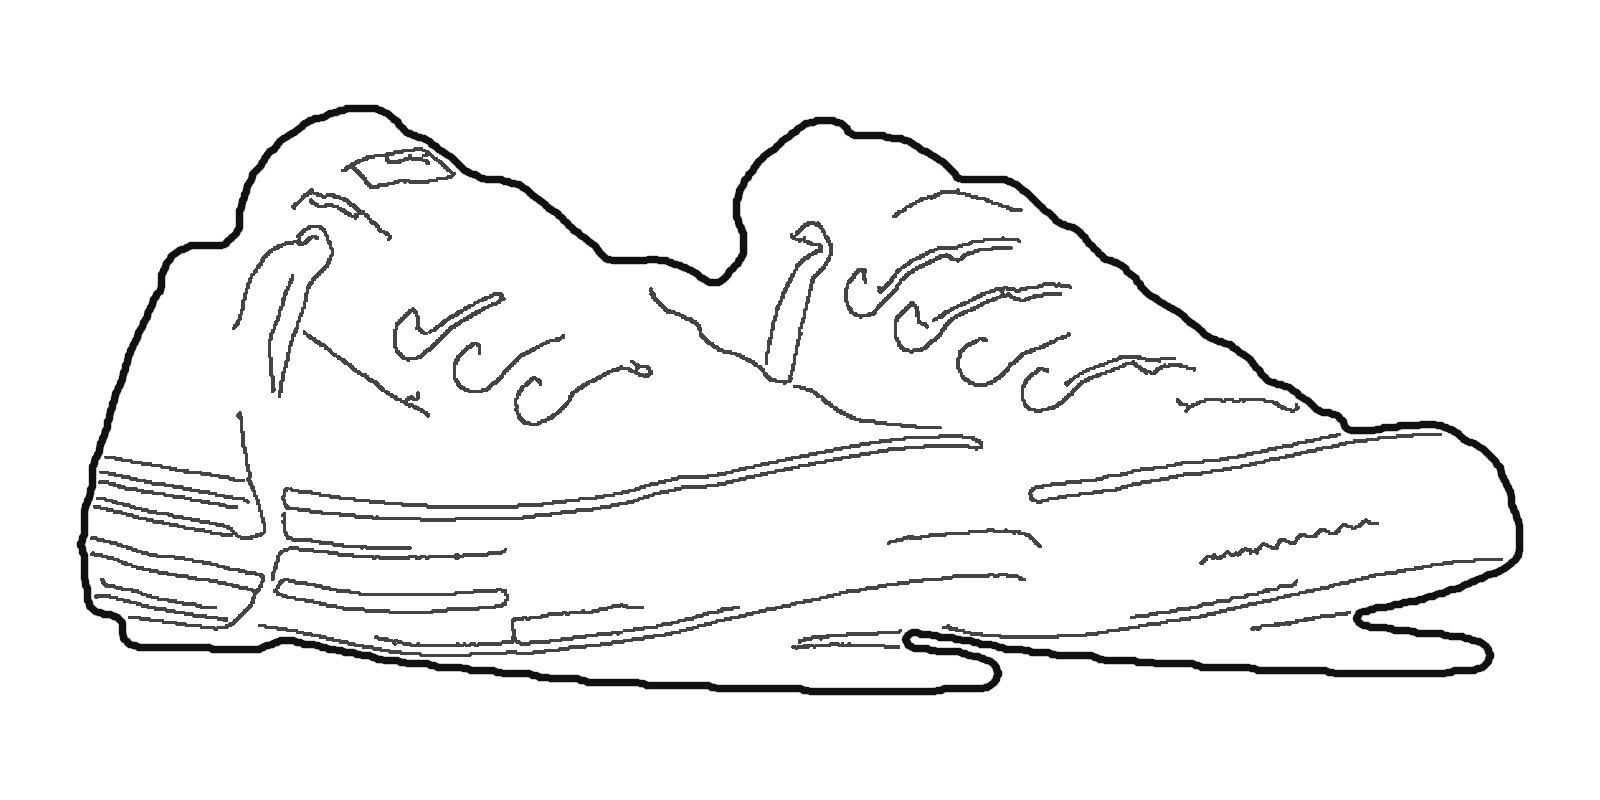
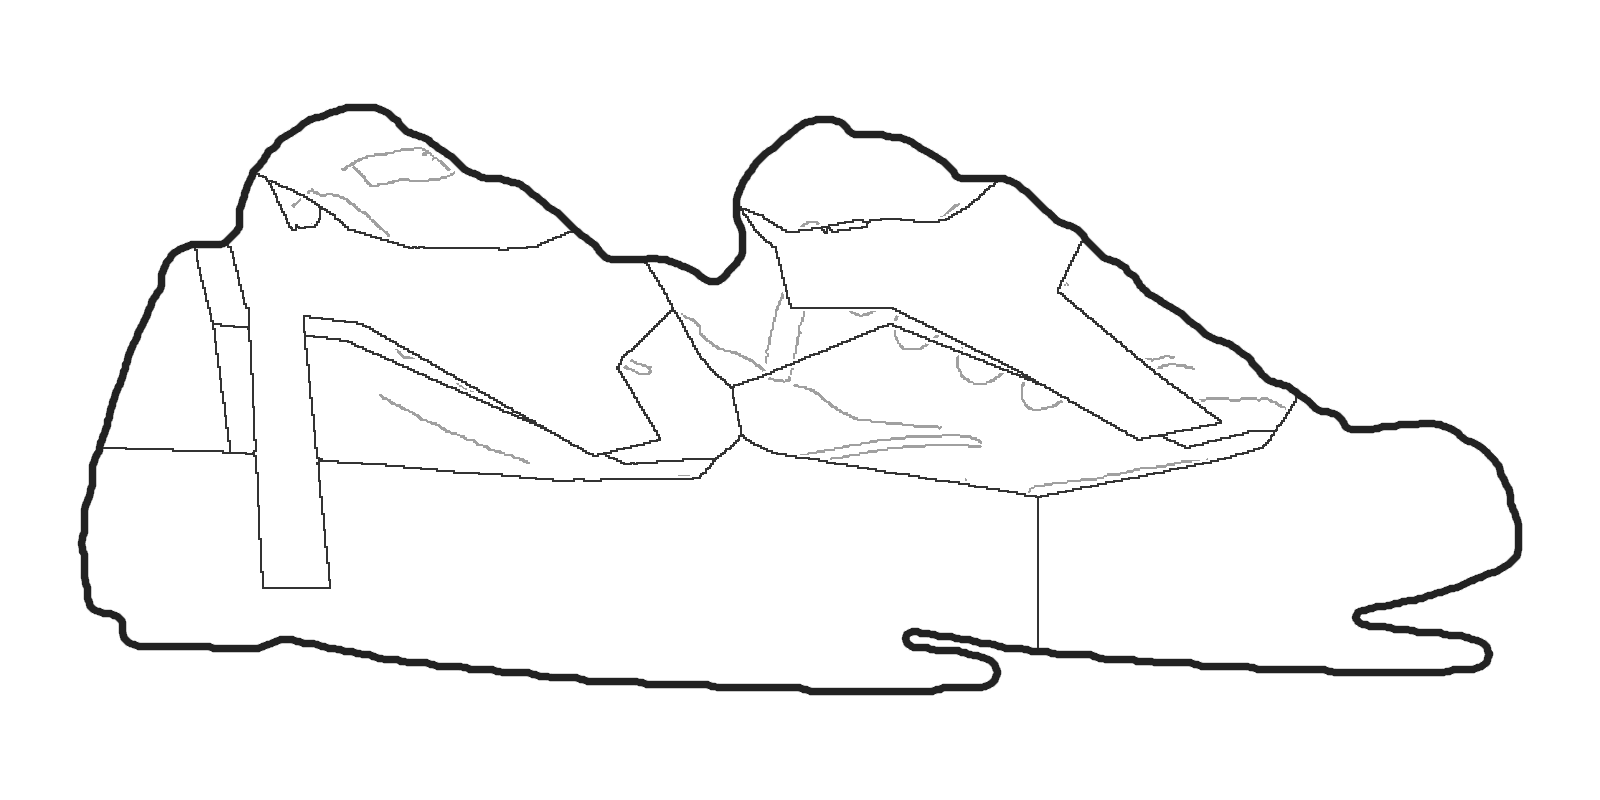
스튜디오: 실제 신발 부위로 칸 나눔(앞코·발등·옆판·뒤꿈치·발목·혀·끈구멍·로고), 양발 바깥·안쪽 따로+뒤·앞 6면, 칠한 부위는 모든 면에 같이, 고무 밑창·끈·고무 패치는 도색 불가 안내, 양발 똑같이 칠하기
Claude-Session: https://claude.ai/code/session_016kEWtTqwu5RzTVdnxWiE5y

diff --git a/assets/studio.js b/assets/studio.js
@@ -9,8 +9,12 @@
   function mk() { var c = document.createElement('canvas'); c.width = W; c.height = H; return c; }
   var lineCv = mk(), insideCv = mk(), paintCv = mk(), itemCv = mk(), lightCv = mk();
   /* 11/12 회장: 바깥 옆면·안쪽 옆면·뒷면·앞쪽 4면. 면마다 따로 꾸미고, 바탕색은 4면이 같이 바뀐다 */
-  var VIEWS = [['lateral', '바깥 옆면'], ['medial', '안쪽 옆면'], ['back', '뒷면'], ['front', '앞쪽']];
-  var LS = {};   // 면별 선화·경계·안쪽 {line, light, inside, boundary, outside}
+  /* 11/12 회장: 양발 바깥·안쪽 따로 + 뒤·앞. 칸(부위)은 실제 신발 부위로 나뉘고, 한 면에서 칠한 부위는 다른 면에서도 같은 색. 고무 밑창·끈은 칠하지 않음 */
+  var VIEWS = [['rout', '오른발 바깥'], ['rin', '오른발 안쪽'], ['lout', '왼발 바깥'], ['lin', '왼발 안쪽'], ['back', '뒤'], ['front', '앞']];
+  var PARTS = ['', 'toe', 'vamp', 'quarter', 'heel', 'collar', 'tongue', 'eyestay', 'logo', 'lace', 'sole'];
+  var PART_KO = { toe: '앞코', vamp: '발등 옆', quarter: '옆판', heel: '뒤꿈치', collar: '발목 둘레', tongue: '혀', eyestay: '끈 구멍 줄', logo: '로고', lace: '끈', sole: '밑창' };
+  var NOPAINT = { sole: '고무 밑창(아웃솔)은 도색이 안 돼요', lace: '신발 끈은 칠하지 않아요. 원하는 끈 색은 작가에게 한마디에 적어 주세요' };
+  var LS = {};   // 면별 {line, inside, map(부위 번호), outside}
 
   /* 11/11 회장: 고를 신발은 6개 모델(흰색·검정), 가격은 공식 판매가(회사가 한 달에 한 번 확인) */
   var MODELS = S.STUDIO_MODELS || [];
@@ -23,7 +27,17 @@
   function modelById(id) { return MODELS.filter(function (m) { return m.id === id; })[0]; }
   var PAINTS = ['#ffffff', '#111111', '#c8102e', '#e94e1b', '#f5c400', '#2f8f3a', '#0a4ea2', '#5a3fb8', '#f4a6c0', '#8fd3f4', '#b8e08a', '#8a5a3b', '#c9c1b6', '#6b6b6b', '#0b1f3a', '#7a0019'];
 
-  var st = { base: null, photo: null, ops: [], items: [], sel: -1, tool: 'fill', color: '#c8102e', bsize: 16, view: 'lateral', views: {}, baseColor: '#ffffff' };
+  var st = { base: null, photo: null, ops: [], items: [], sel: -1, tool: 'fill', color: '#c8102e', bsize: 16, view: 'rout', views: {}, baseColor: '#ffffff', parts: {} };
+  function rubberPatch(code) { return (st.model === 'chuckhi' || st.model === 'chuck') && PARTS[code % 16] === 'logo'; }
+  function soleColor() { return (st.model === 'af1' && st.color0 === 'black') ? '#1c1c1c' : '#f4f4f2'; }
+  function laceColor() { return st.color0 === 'black' ? '#222222' : '#fafafa'; }
+  function colorOf(code) {
+    var p = PARTS[code % 16];
+    if (p === 'sole') return soleColor();
+    if (p === 'lace') return laceColor();
+    if (rubberPatch(code)) return '#f4f4f2';
+    return st.parts[code] || st.baseColor;
+  }
   function emptyViews() { var o = {}; VIEWS.forEach(function (v) { o[v[0]] = { ops: [], items: [] }; }); return o; }
   st.views = emptyViews();
   function flush() { st.views[st.view] = { ops: st.ops, items: st.items }; }
@@ -32,7 +46,7 @@
     flush(); st.view = v; st.ops = st.views[v].ops; st.items = st.views[v].items; st.sel = -1;
     useLines(v); rebuildPaint(); draw(); syncSel(); markViews();
   }
-  function useLines(v) { var L = LS[v]; if (!L) return; lineCv = L.line; lightCv = L.light; insideCv = L.inside; boundary = L.boundary; outside = L.outside; }
+  function useLines(v) { var L = LS[v]; if (!L) return; lineCv = L.line; insideCv = L.inside; boundary = L.map; outside = L.outside; }
   function markViews() {
     var box = $('#views'); if (!box) return; box.hidden = !!st.photo || !st.base;
     flush();
@@ -46,7 +60,7 @@
   function won(n) { return B.won ? B.won(n) : n.toLocaleString() + '원'; }
   $('#models').innerHTML = MODELS.map(function (m) {
     var p = (m.colors.white || m.colors[Object.keys(m.colors)[0]]).price;
-    return '<button type="button" data-model="' + m.id + '"><img src="assets/studio/' + m.id + '-lateral.png" alt=""><b>' + m.ko + '</b><small>' + Object.keys(m.colors).map(function (c) { return m.colors[c].ko; }).join(' · ') + ' · ' + won(p) + '</small></button>';
+    return '<button type="button" data-model="' + m.id + '"><img src="assets/studio/' + m.id + '-rout.png?v=2" alt=""><b>' + m.ko + '</b><small>' + Object.keys(m.colors).map(function (c) { return m.colors[c].ko; }).join(' · ') + ' · ' + won(p) + '</small></button>';
   }).join('');
   $$('#models button').forEach(function (b) { b.onclick = function () { pickModel(b.getAttribute('data-model')); }; });
   function pickModel(id, color) {
@@ -71,23 +85,28 @@
     var left = VIEWS.length, NL = {};
     $('#empty').hidden = false; $('#empty').textContent = '신발을 불러오는 중…';
     VIEWS.forEach(function (v) {
-      var img = new Image();
-      img.onload = function () {
-        var L = { line: mk(), light: mk(), inside: mk() };
-        var lc = L.line.getContext('2d'); lc.drawImage(img, 0, 0, W, H);
-        var gl = L.light.getContext('2d'); gl.drawImage(img, 0, 0, W, H); gl.globalCompositeOperation = 'source-in'; gl.fillStyle = '#e8e8e8'; gl.fillRect(0, 0, W, H);
-        buildMasks(L); NL[v[0]] = L;
+      var img = new Image(), mp = new Image(), got = 0;
+      function both() {
+        if (++got < 2) return;
+        var L = { line: mk(), inside: mk() };
+        L.line.getContext('2d').drawImage(img, 0, 0, W, H);
+        var t = mk(), tg = t.getContext('2d'); tg.imageSmoothingEnabled = false; tg.drawImage(mp, 0, 0, W, H);
+        var d = tg.getImageData(0, 0, W, H).data, n = W * H, map = new Uint8Array(n), out = new Uint8Array(n);
+        var ic = L.inside.getContext('2d'), idd = ic.createImageData(W, H), a = idd.data;
+        for (var i = 0; i < n; i++) { map[i] = d[i * 4]; var pp = map[i] % 16; if (map[i] && pp !== 9 && pp !== 10) a[i * 4 + 3] = 255; if (!map[i]) out[i] = 1; }
+        ic.putImageData(idd, 0, 0); L.map = map; L.outside = out; NL[v[0]] = L;
         if (--left) return;
         LS = NL; st.base = id; st.photo = null;
         var keep = {}; flush(); VIEWS.forEach(function (x) { keep[x[0]] = { ops: [], items: (st.views[x[0]] || { items: [] }).items }; });
-        st.views = keep; st.view = 'lateral'; st.ops = keep.lateral.ops; st.items = keep.lateral.items;
+        st.views = keep; st.view = 'rout'; st.ops = keep.rout.ops; st.items = keep.rout.items; st.parts = {};
         st.baseColor = st.color0 === 'black' ? '#1c1c1c' : '#ffffff';
-        useLines('lateral'); $('#empty').textContent = '신발을 먼저 골라 주세요';
+        useLines('rout'); $('#empty').textContent = '신발을 먼저 골라 주세요';
         rebuildPaint(); draw(); afterModel(); setHint(); markViews();
         if (pendingLoad) { var d = pendingLoad; pendingLoad = null; applySaved(d); }
       };
-      img.onerror = function () { $('#empty').textContent = '신발 그림을 불러오지 못했어요. 새로고침해 주세요.'; };
-      img.src = 'assets/studio/' + id + '-' + v[0] + '.png';
+      img.onload = both; mp.onload = both;
+      img.onerror = mp.onerror = function () { $('#empty').textContent = '신발 그림을 불러오지 못했어요. 새로고침해 주세요.'; };
+      img.src = 'assets/studio/' + id + '-' + v[0] + '.png?v=2'; mp.src = 'assets/studio/' + id + '-' + v[0] + '-map.png?v=2';
     });
   }
   function markBases() { $$('#models button').forEach(function (b) { b.classList.toggle('on', !st.photo && b.getAttribute('data-model') === st.model); }); $('.st-photo').classList.toggle('on', !!st.photo); }
@@ -95,7 +114,7 @@
   $('#photo').onchange = function () {
     var f = this.files[0]; if (!f) return;
     loadImg(f, 1600, function (img) {
-      st.photo = img; st.base = 'photo'; flush(); st.views = emptyViews(); st.view = 'lateral'; st.ops = st.views.lateral.ops; st.items = st.views.lateral.items; LS = {};
+      st.photo = img; st.base = 'photo'; flush(); st.views = emptyViews(); st.view = 'rout'; st.ops = st.views.rout.ops; st.items = st.views.rout.items; LS = {};
       lineCv = mk(); lightCv = mk(); insideCv = mk();
       boundary = null; outside = null;
       var ic = insideCv.getContext('2d'); ic.fillStyle = '#000'; ic.fillRect(0, 0, W, H); markViews();
@@ -155,8 +174,12 @@
   function rebuildPaint() { paintInto(paintCv, st.ops); }
   function paintInto(c, ops) {
     var g = c.getContext('2d'); g.clearRect(0, 0, W, H);
-    if (!st.photo && st.base) { g.fillStyle = st.baseColor; g.fillRect(0, 0, W, H); }
-    ops.forEach(function (op) { if (op.type === 'fill') g.drawImage(fillMask(op), 0, 0); else strokeOn(g, op); });
+    if (!st.photo && st.base && boundary) {
+      var id = g.createImageData(W, H), a = id.data, lut = {}, n = W * H;
+      for (var i = 0; i < n; i++) { var k = boundary[i]; if (!k) continue; var c3 = lut[k] || (lut[k] = hex(colorOf(k))); a[i * 4] = c3[0]; a[i * 4 + 1] = c3[1]; a[i * 4 + 2] = c3[2]; a[i * 4 + 3] = 255; }
+      g.putImageData(id, 0, 0);
+    }
+    ops.forEach(function (op) { if (op.type !== 'fill') strokeOn(g, op); });
     if (!st.photo && st.base) { g.globalCompositeOperation = 'destination-in'; g.drawImage(insideCv, 0, 0); g.globalCompositeOperation = 'source-over'; }
   }
   function strokeOn(g, op) {
@@ -184,7 +207,7 @@
     st.items.forEach(function (it) { drawItem(g, it); });
     if (!st.photo && st.base) { g.globalCompositeOperation = 'destination-in'; g.drawImage(insideCv, 0, 0); g.globalCompositeOperation = 'source-over'; }
     ctx.drawImage(itemCv, 0, 0);
-    if (!st.photo && st.base) { if (dark(st.baseColor)) ctx.drawImage(lightCv, 0, 0); else { ctx.globalCompositeOperation = 'multiply'; ctx.drawImage(lineCv, 0, 0); ctx.globalCompositeOperation = 'source-over'; ctx.drawImage(lineCv, 0, 0); } }
+    if (!st.photo && st.base) ctx.drawImage(lineCv, 0, 0);
     if (!forExport && st.items[st.sel]) {
       var it = st.items[st.sel], sz = itemSize(it);
       ctx.translate(it.x, it.y); ctx.rotate(it.r * Math.PI / 180);
@@ -197,24 +220,25 @@
   var qPend = false;
 
   /* ---------- 되돌리기 ---------- */
-  function snap() { return { view: st.view, base: st.baseColor, ops: st.ops.slice(), items: st.items.map(function (i) { return Object.assign({}, i); }) }; }
+  function snap() { return { view: st.view, base: st.baseColor, parts: Object.assign({}, st.parts), ops: st.ops.slice(), items: st.items.map(function (i) { return Object.assign({}, i); }) }; }
   function push() { hist.push(snap()); if (hist.length > 50) hist.shift(); redo = []; dirtyFlag = true; syncUndo(); }
-  function restore(s) { if (s.view && s.view !== st.view && LS[s.view]) { flush(); st.view = s.view; useLines(s.view); } st.baseColor = s.base || st.baseColor; st.ops = s.ops; st.items = s.items; flush(); st.sel = -1; rebuildPaint(); draw(); syncSel(); markViews(); }
+  function restore(s) { if (s.view && s.view !== st.view && LS[s.view]) { flush(); st.view = s.view; useLines(s.view); } st.baseColor = s.base || st.baseColor; if (s.parts) st.parts = s.parts; st.ops = s.ops; st.items = s.items; flush(); st.sel = -1; rebuildPaint(); draw(); syncSel(); markViews(); }
   function syncUndo() { $('#undo').disabled = !hist.length; $('#redo').disabled = !redo.length; }
   $('#undo').onclick = function () { if (!hist.length) return; redo.push(snap()); restore(hist.pop()); syncUndo(); };
   $('#redo').onclick = function () { if (!redo.length) return; hist.push(snap()); restore(redo.pop()); syncUndo(); };
-  $('#clear').onclick = function () { if (!st.ops.length && !st.items.length) return; if (!confirm('이 면에 칠한 것과 올린 것을 모두 지울까요?')) return; push(); st.ops = []; st.items = []; st.sel = -1; rebuildPaint(); draw(); syncSel(); markViews(); };
-  $('#base-all').onclick = function () { if (!st.base || st.photo) return; push(); st.baseColor = st.color; rebuildPaint(); draw(); B.toast('4면 바탕색을 모두 바꿨어요'); };
+  $('#clear').onclick = function () { if (!st.ops.length && !st.items.length && !Object.keys(st.parts).length) return; if (!confirm('칠한 부위 색과 이 면에 그린 것·올린 것을 모두 지울까요?')) return; push(); st.parts = {}; st.ops = []; st.items = []; st.sel = -1; rebuildPaint(); draw(); syncSel(); markViews(); };
+  $('#base-all').onclick = function () { if (!st.base || st.photo) return; push(); st.baseColor = st.color; st.parts = {}; rebuildPaint(); draw(); B.toast('신발 전체를 이 색으로 칠했어요(밑창·끈 빼고)'); };
   $('#dl').onclick = function () { saveDesign(); };
   function exportUrl(w, q) {
     var c = document.createElement('canvas'); c.width = w; c.height = w / 2; var g = c.getContext('2d');
     g.fillStyle = '#fff'; g.fillRect(0, 0, c.width, c.height);
-    if (st.photo || !LS.lateral) { draw(true); g.drawImage(cv, 0, 0, c.width, c.height); draw(); return c.toDataURL('image/jpeg', q); }
+    if (st.photo || !LS.rout) { draw(true); g.drawImage(cv, 0, 0, c.width, c.height); draw(); return c.toDataURL('image/jpeg', q); }
     flush(); var cur = st.view, sel = st.sel; st.sel = -1;
     VIEWS.forEach(function (v, k) {
       st.view = v[0]; st.ops = st.views[v[0]].ops; st.items = st.views[v[0]].items; useLines(v[0]); rebuildPaint(); draw(true);
-      g.drawImage(cv, (k % 2) * c.width / 2, Math.floor(k / 2) * c.height / 2, c.width / 2, c.height / 2);
-      g.fillStyle = '#888'; g.font = Math.round(c.width / 60) + 'px sans-serif'; g.fillText(v[1], (k % 2) * c.width / 2 + 10, Math.floor(k / 2) * c.height / 2 + c.width / 50);
+      var cw = c.width / 3, chh = c.height / 2, cx = (k % 3) * cw, cy = Math.floor(k / 3) * chh;
+      g.drawImage(cv, cx, cy + (chh - cw / 2) / 2, cw, cw / 2);
+      g.fillStyle = '#888'; g.font = Math.round(c.width / 70) + 'px sans-serif'; g.fillText(v[1], cx + 8, cy + c.width / 60);
     });
     st.view = cur; st.ops = st.views[cur].ops; st.items = st.views[cur].items; st.sel = sel; useLines(cur); rebuildPaint(); draw();
     return c.toDataURL('image/jpeg', q);
@@ -232,7 +256,7 @@
   }
   function setHint() {
     var h = !st.base ? '먼저 1번에서 신발을 골라 주세요' :
-      st.tool === 'fill' ? (st.photo ? '사진 위에서는 붓으로 칠해 주세요' : '신발 안쪽 칸을 누르면 고른 색으로 칠해져요') :
+      st.tool === 'fill' ? (st.photo ? '사진 위에서는 붓으로 칠해 주세요' : '부위를 누르면 그 부위가 칠해지고, 다른 면에서도 같은 색으로 보여요. 고무 밑창·끈은 칠하지 않아요') :
       st.tool === 'brush' ? '손가락이나 마우스로 그려요' :
       st.tool === 'image' ? '올린 그림을 끌어서 옮기고, 두 손가락으로 크기·각도를 바꿔요' : '글자를 쓰고 올리기를 누르세요. 끌어서 옮겨요';
     $('#hint').textContent = h;
@@ -309,10 +333,15 @@
     if (st.tool === 'image' || st.tool === 'text') { st.sel = -1; draw(); syncSel(); return; }
     if (st.tool === 'fill') {
       if (st.photo) return;
-      var x = Math.round(p[0]), y = Math.round(p[1]), i = y * W + x;
-      if (outside[i]) return B.toast('신발 안쪽을 눌러 주세요');
-      if (boundary[i]) return;
-      push(); st.ops.push({ type: 'fill', x: x, y: y, color: st.color }); rebuildPaint(); draw(); markViews(); return;
+      var x = Math.round(p[0]), y = Math.round(p[1]), i = y * W + x, code = boundary[i];
+      if (!code) return B.toast('신발 안쪽을 눌러 주세요');
+      var part = PARTS[code % 16];
+      if (NOPAINT[part]) return B.toast(NOPAINT[part]);
+      if (rubberPatch(code)) return B.toast('고무 패치는 도색이 안 돼요');
+      push(); st.parts[code] = st.color;
+      var both = $('#both') && $('#both').checked; if (both) st.parts[code >= 32 ? code - 16 : code + 16] = st.color;
+      rebuildPaint(); draw(); markViews();
+      B.toast((both ? '양발 ' : code >= 32 ? '왼발 ' : '오른발 ') + PART_KO[part] + ' — 다른 면에서도 같은 색이에요'); return;
     }
     if (st.tool === 'brush') { push(); cur = { type: 'stroke', color: st.color, size: st.bsize, pts: [p] }; st.ops.push(cur); rebuildPaint(); draw(); }
   });
@@ -337,10 +366,11 @@
   $$('#q-src button').forEach(function (b) { b.onclick = function () { $$('#q-src button').forEach(function (x) { x.classList.toggle('on', x === b); }); quote(); }; });
   function counts() {
     var fills = 0, strokes = 0, imgs = 0, texts = 0; flush();
+    fills = Object.keys(st.parts).filter(function (k) { return st.parts[k] !== st.baseColor; }).length;
     Object.keys(st.views).forEach(function (k) { var v = st.views[k];
-      v.ops.forEach(function (op) { if (op.type === 'fill') fills++; else strokes++; });
+      v.ops.forEach(function (op) { if (op.type !== 'fill') strokes++; });
       v.items.forEach(function (i) { if (i.type === 'img') imgs++; else texts++; }); });
-    if (!st.photo && st.base && st.baseColor !== (st.color0 === 'black' ? '#1c1c1c' : '#ffffff')) fills += 4;
+    if (!st.photo && st.base && st.baseColor !== (st.color0 === 'black' ? '#1c1c1c' : '#ffffff')) fills += 6;
     return { fills: fills, strokes: strokes, imgs: imgs, texts: texts };
   }
   function paintEstimate() {
@@ -374,17 +404,17 @@
     Object.keys(st.views).forEach(function (k) { var v = st.views[k];
       views[k] = { ops: v.ops.map(function (o) { var c = Object.assign({}, o); delete c._m; return c; }),
         items: v.items.map(function (it) { var c = Object.assign({}, it); if (it.type === 'img') { c.src = it.img.toDataURL('image/jpeg', 0.8); delete c.img; } return c; }) }; });
-    return { v: 2, model: st.model, color0: st.color0, base: st.base, baseColor: st.baseColor, views: views };
+    return { v: 3, model: st.model, color0: st.color0, base: st.base, baseColor: st.baseColor, parts: Object.assign({}, st.parts), views: views };
   }
   function applySaved(d) {
-    var s0 = d.state || {}, src = s0.views || { lateral: { ops: [], items: s0.items || [] } }, waits = [], nv = emptyViews();
-    if (s0.baseColor) st.baseColor = s0.baseColor;
-    Object.keys(src).forEach(function (k) { if (!nv[k]) return; nv[k].ops = (src[k].ops || []).slice();
+    var s0 = d.state || {}, src = s0.views || { rout: { ops: [], items: s0.items || [] } }, waits = [], nv = emptyViews();
+    if (s0.baseColor) st.baseColor = s0.baseColor; st.parts = s0.v === 3 ? Object.assign({}, s0.parts || {}) : {};
+    Object.keys(src).forEach(function (k) { if (!nv[k]) return; nv[k].ops = (src[k].ops || []).filter(function (o) { return o.type !== 'fill'; });
       (src[k].items || []).forEach(function (it) { waits.push(new Promise(function (res) {
         if (it.type !== 'img') { nv[k].items.push(it); return res(); }
         var im = new Image(); im.onload = function () { var c = document.createElement('canvas'); c.width = it.w; c.height = it.h; c.getContext('2d').drawImage(im, 0, 0, it.w, it.h); var x = Object.assign({}, it); delete x.src; x.img = c; nv[k].items.push(x); res(); }; im.onerror = res; im.src = it.src;
       })); }); });
-    Promise.all(waits).then(function () { st.views = nv; st.view = 'lateral'; st.ops = nv.lateral.ops; st.items = nv.lateral.items; useLines('lateral'); st.sel = -1; rebuildPaint(); draw(); syncSel(); quote(); markViews(); dirtyFlag = false; editingId = d.id; });
+    Promise.all(waits).then(function () { st.views = nv; st.view = 'rout'; st.ops = nv.rout.ops; st.items = nv.rout.items; useLines('rout'); st.sel = -1; rebuildPaint(); draw(); syncSel(); quote(); markViews(); dirtyFlag = false; editingId = d.id; });
   }
   var editingId = null;
   function designs() { try { return JSON.parse(localStorage.getItem('bium_studio') || '[]'); } catch (e) { return []; } }

diff --git a/studio.html b/studio.html
@@ -29,7 +29,7 @@
         <button type="button" id="clear">처음부터</button>
         <button type="button" id="dl">내 스튜디오에 저장</button>
       </div>
-      <p class="st-hint" id="hint">신발 안쪽을 누르면 그 칸이 칠해져요</p>
+      <p class="st-hint" id="hint">부위를 누르면 그 부위가 칠해져요</p>
     </div>
 
     <aside class="st-panel">
@@ -52,7 +52,8 @@
         <div class="st-pane" data-pane="color">
           <div class="st-sw" id="sw"></div>
           <label class="st-custom">다른 색 <input type="color" id="pick" value="#c8102e"></label>
-          <button type="button" class="btn line small st-baseall" id="base-all">이 색을 신발 바탕색으로 (4면 모두)</button>
+          <label class="st-both"><input type="checkbox" id="both" checked> 양발 똑같이 칠하기</label>
+          <button type="button" class="btn line small st-baseall" id="base-all">이 색으로 신발 전체 칠하기 (밑창·끈 빼고)</button>
         </div>
         <div class="st-pane" data-pane="brush" hidden>
           <label class="st-lbl">붓 굵기 <input type="range" id="bsize" min="4" max="60" value="16"></label>

diff --git a/assets/site.css b/assets/site.css
@@ -960,3 +960,4 @@ footer .biz a { color: inherit; text-decoration: underline; font-size: 11px; }
 .st-views button.on { background: var(--ink); color: var(--white); border-color: var(--ink); }
 .st-views button i { font-style: normal; font-size: 8px; vertical-align: middle; color: #c8102e; }
 .st-baseall { margin-top: 10px; width: 100%; }
+.st-both { display: flex; gap: 8px; align-items: center; font-size: 13px; margin-top: 12px; cursor: pointer; }
